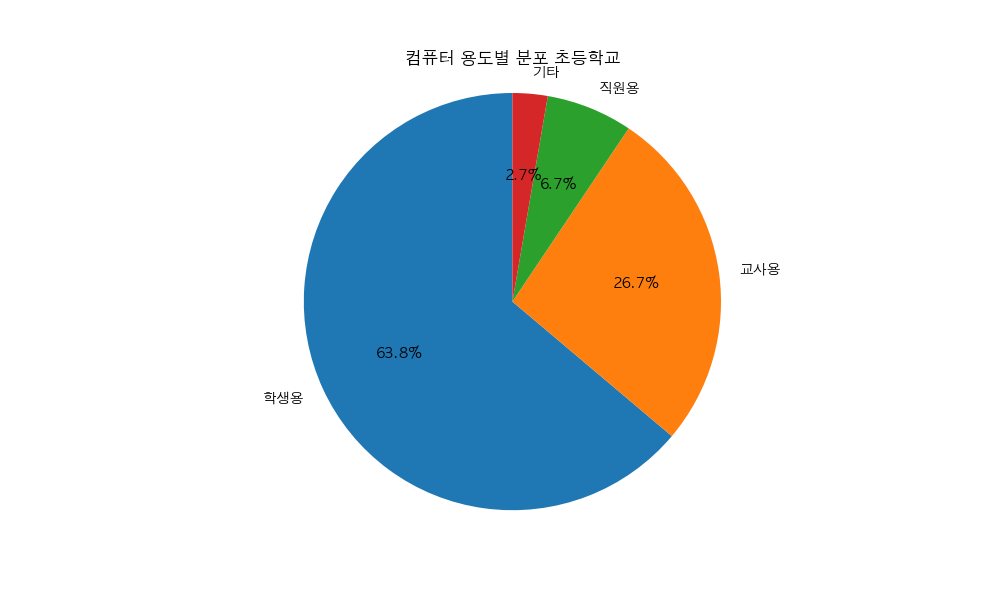
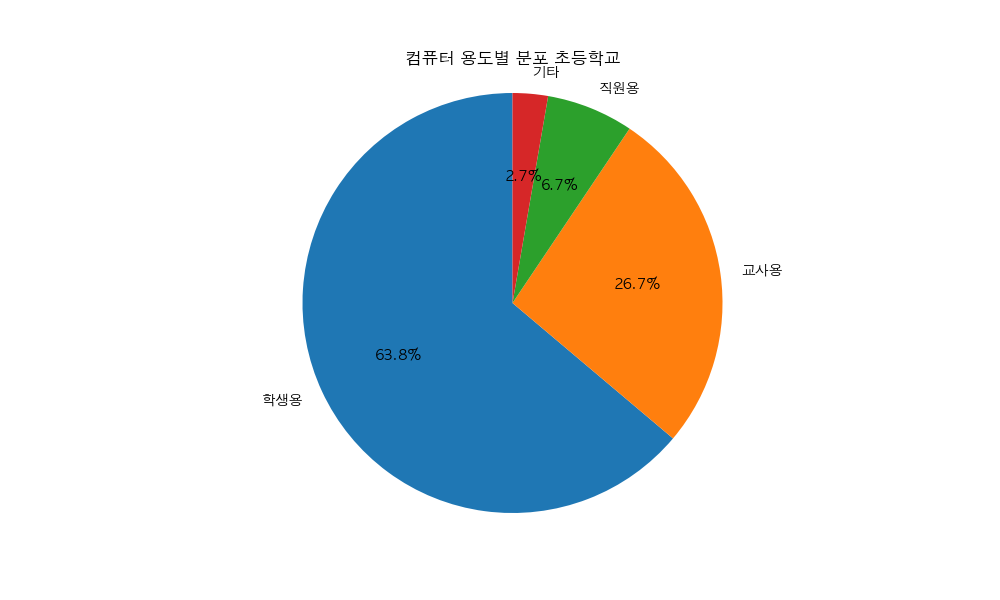
modified visualization

diff --git a/static/js/app.js b/static/js/app.js
@@ -45,7 +45,7 @@ document.addEventListener('DOMContentLoaded', function() {
 
     // Function to load data for each visualization
     function loadVisualizationData(visualizationType) {
-        fetch('/static/data/total_region.csv')
+        fetch('/data/total_region.csv')
             .then(response => response.text())
             .then(data => {
                 const rows = data.split('\n');
@@ -154,15 +154,48 @@ document.addEventListener('DOMContentLoaded', function() {
         if (!tbody) return;
 
         tbody.innerHTML = '';
-        dataRows.forEach(row => {
-            const schoolType = row[headers.indexOf('구분')];
-            const total = parseFloat(row[headers.indexOf('전체')]) || 0;
-            const student = parseFloat(row[headers.indexOf('학생용')]) || 0;
-            const teacher = parseFloat(row[headers.indexOf('교사용')]) || 0;
-            const staff = parseFloat(row[headers.indexOf('직원용')]) || 0;
-            const other = parseFloat(row[headers.indexOf('기타')]) || 0;
+
+        dataRows.forEach((row, index) => {
+            // Check if the row is valid (has enough columns based on headers)
+            if (row.length < headers.length) {
+                console.warn(`Skipping invalid row at index ${index}:`, row);
+                return; // Skip this row if it's malformed
+            }
+
+            const schoolTypeIndex = headers.indexOf('구분');
+            const totalIndex = headers.indexOf('전체');
+            const studentIndex = headers.indexOf('학생용');
+            const teacherIndex = headers.indexOf('교사용');
+            const staffIndex = headers.indexOf('직원용');
+            const otherIndex = headers.indexOf('기타');
+            
+            // Check if all expected headers are found
+            if ([schoolTypeIndex, totalIndex, studentIndex, teacherIndex, staffIndex, otherIndex].includes(-1)) {
+                console.error('One or more headers not found in:', headers);
+                return; // Stop processing if headers are missing
+            }
+
+            const schoolType = row[schoolTypeIndex];
+            const total = parseFloat(row[totalIndex]) || 0;
+            const student = parseFloat(row[studentIndex]) || 0;
+            const teacher = parseFloat(row[teacherIndex]) || 0;
+            const staff = parseFloat(row[staffIndex]) || 0;
+            const other = parseFloat(row[otherIndex]) || 0;
+
+            // Log data specifically for '서울특별시'
+            if (schoolType === '서울특별시') {
+                console.log('Processing 서울특별시 row:', row);
+                console.log('  School Type:', schoolType, '(Index:', schoolTypeIndex, ')');
+                console.log('  Total:', total, '(Index:', totalIndex, ')');
+                console.log('  Student:', student, '(Index:', studentIndex, ')');
+                console.log('  Teacher:', teacher, '(Index:', teacherIndex, ')');
+                console.log('  Staff:', staff, '(Index:', staffIndex, ')');
+                console.log('  Other:', other, '(Index:', otherIndex, ')');
+            }
 
             const tr = document.createElement('tr');
+
+            // Ensure exactly 6 <td> elements are created first
             tr.innerHTML = `
                 <td>${schoolType}</td>
                 <td>${total.toFixed(1)}</td>
@@ -171,6 +204,20 @@ document.addEventListener('DOMContentLoaded', function() {
                 <td>${staff.toFixed(1)}</td>
                 <td>${other.toFixed(1)}</td>
             `;
+
+            // Apply distinction line style to all cells in the row if condition met
+            if (index > 0 && schoolType === '서울특별시' && dataRows[index-1][schoolTypeIndex] === '특수학교') {
+                const cells = tr.querySelectorAll('td'); // Get all <td> elements in this row
+                cells.forEach(cell => {
+                    cell.style.borderTop = '2px solid #ff6b6b'; // Apply border directly to each cell
+                });
+             }
+
+            // Log the generated HTML for '서울특별시'
+            if (schoolType === '서울특별시') {
+                console.log('  Generated HTML:', tr.innerHTML);
+            }
+            
             tbody.appendChild(tr);
         });
     }

diff --git a/static/css/style.css b/static/css/style.css
@@ -49,6 +49,13 @@
     background-color: #f8f9fa;
 }
 
+/* Removing unused distinction line style for the entire row */
+/*
+.distinction-line-row {
+    border-top: 2px solid #ff6b6b; 
+}
+*/
+
 /* Image styles */
 .img-fluid {
     max-width: 100%;

diff --git a/src/overview_analysis.py b/src/overview_analysis.py
@@ -4,6 +4,7 @@ import seaborn as sns
 import numpy as np
 import platform
 import os
+import matplotlib.cm as cm # Import colormap module
 
 # Set font for Korean text
 if platform.system() == 'Darwin':  # macOS
@@ -52,9 +53,33 @@ def create_visualizations(df, suffix):
     school_counts = df['구분'].value_counts()
     plt.figure(figsize=(10, 6))
     if not school_counts.empty:
-        plt.pie(school_counts, labels=school_counts.index, autopct='%1.1f%%', startangle=90)
+        # --- Improvements Start ---
+        num_slices = len(school_counts)
+        # Use a perceptually uniform colormap like 'viridis'
+        colors = cm.viridis(np.linspace(0.1, 0.9, num_slices))
+
+        # Adjust labeldistance and pctdistance to push labels outwards
+        # Decrease fontsize if labels are still overlapping
+        wedges, texts, autotexts = plt.pie(
+            school_counts,
+            labels=school_counts.index,
+            autopct='%1.1f%%',
+            startangle=110, # Adjusted start angle slightly
+            colors=colors,
+            pctdistance=0.85, # Distance of percentage labels from center
+            labeldistance=1.1, # Distance of text labels from center
+            textprops={'fontsize': 9} # Adjust font size if necessary
+        )
+        
+        # Optional: Adjust autopct text color for better contrast on dark slices
+        for i, autotext in enumerate(autotexts):
+             # If the slice color is dark, make the percentage text white
+             if np.mean(colors[i][:3]) < 0.5: # Check average RGB brightness
+                 autotext.set_color('white')
+        # --- Improvements End ---
+                 
         plt.title(f'학교 유형별 분포{suffix.replace("_", " ")}')
-        plt.axis('equal')
+        plt.axis('equal') # Equal aspect ratio ensures that pie is drawn as a circle.
         plt.savefig(f'../static/data/overview/school_type_distribution{suffix}.png')
     plt.close()
 
@@ -75,7 +100,11 @@ def create_visualizations(df, suffix):
     school_computers = df.groupby('구분')['전체'].mean()
     plt.figure(figsize=(10, 6))
     if not school_computers.empty:
-        school_computers.plot(kind='bar')
+        # Sort values from smallest to largest
+        school_computers_sorted = school_computers.sort_values()
+        # Create a color map with '전체' in orange and others in default color
+        colors = ['orange' if idx == '전체' else plt.cm.Blues(0.7) for idx in school_computers_sorted.index]
+        school_computers_sorted.plot(kind='bar', color=colors)
         plt.title(f'학교 유형별 평균 컴퓨터 보유 현황{suffix.replace("_", " ")}')
         plt.xlabel('학교 유형')
         plt.ylabel('평균 컴퓨터 수')

diff --git a/app.py b/app.py
@@ -1,4 +1,4 @@
-from flask import Flask, render_template, jsonify, request
+from flask import Flask, render_template, jsonify, request, send_from_directory
 import httpx
 import os
 from dotenv import load_dotenv
@@ -11,14 +11,31 @@ app = Flask(__name__)
 API_KEY = os.getenv('ANTHROPIC_API_KEY')
 API_URL = "https://api.anthropic.com/v1/messages"
 
+# Debug print to check if API key is loaded
+print(f"API Key loaded: {'Yes' if API_KEY else 'No'}")
+print(f"API Key length: {len(API_KEY) if API_KEY else 0}")
+print(f"API Key first 5 chars: {API_KEY[:5] if API_KEY else 'None'}")
+
 @app.route('/')
 def index():
     return render_template('index.html')
+
+# 데이터 파일 제공을 위한 라우트
+@app.route('/data/<path:filename>')
+def serve_data(filename):
+    return send_from_directory('data', filename)
 
 @app.route('/chat', methods=['POST'])
 def chat():
     max_retries = 3
     retry_delay = 1  # seconds
+    
+    # Check if API key is available
+    if not API_KEY or API_KEY == 'your_api_key_here':
+        return jsonify({
+            'status': 'error',
+            'message': 'API key is not configured. Please update the .env file with your Anthropic API key.'
+        }), 500
     
     for attempt in range(max_retries):
         try:
@@ -76,4 +93,4 @@ def chat():
             }), 500
 
 if __name__ == '__main__':
-    app.run(debug=True, port=5001) 
+    app.run(debug=True, port=5003)
